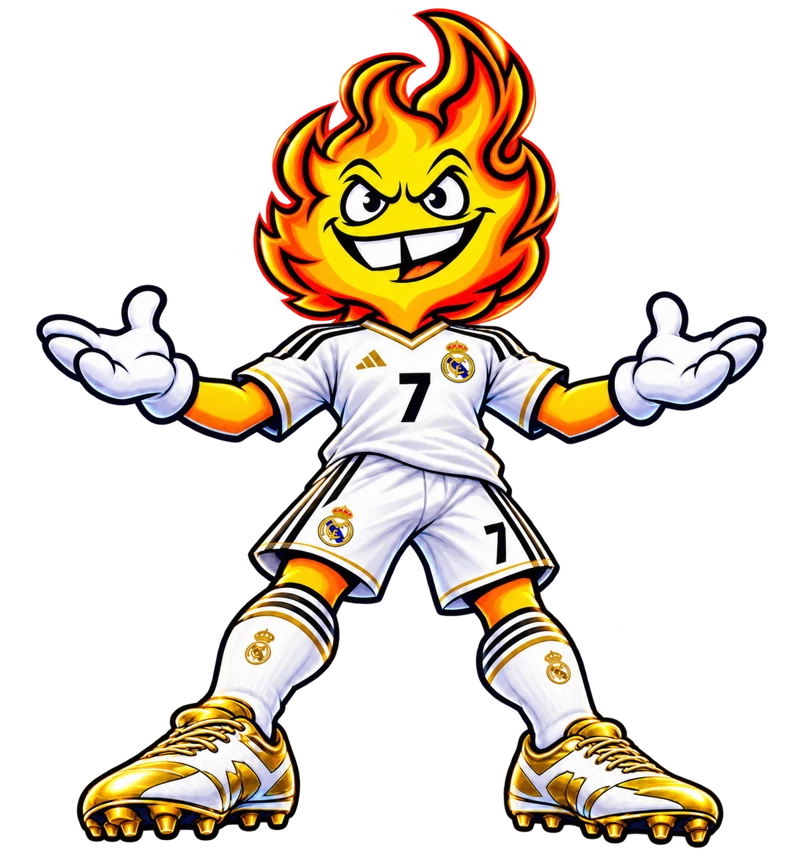
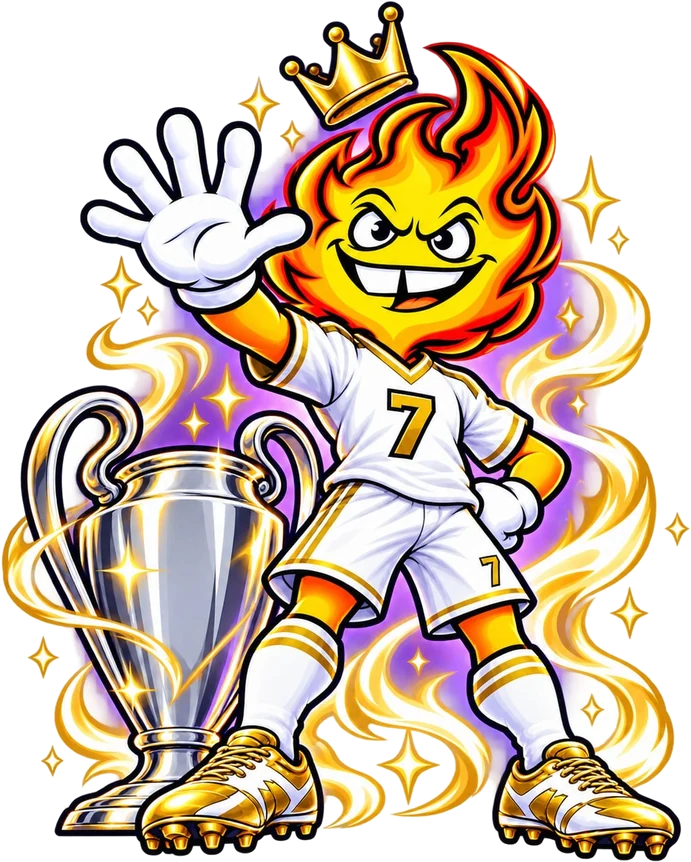
GOAT or BOAT: 17 coin, new CR7 Real art, grouped card frames
New CR7 Real C1 art (open hand, crown, cup). Spin price 17 coin. Board grouped by frame: red neon
headline cards (M10 Barca C1 and CR7 Real C1 with a running sparkle) along the top, purple GOAT/BOAT
down the right, gold shop skins along the bottom and left. Thicker board and card frames, bigger art.
CR7 MU and CR7 Real lead the BOAT list.

Claude-Session: https://claude.ai/code/session_01Gdoir5WVcTCbakTzgkp26Z

diff --git a/public/app.js b/public/app.js
@@ -46,7 +46,7 @@ function characterImage(id,cls='character-avatar'){return animatedCharacter(char
 function characterSummary(){const c=characterById(selectedCharacter);return `${characterImage(c.id)}<div><small>BELLA CREW / NHÂN VẬT CỦA BẠN</small><strong>${c.name}</strong><span>${c.tag}</span></div><button type="button" data-character-picker>Chọn nhân vật ↗</button>`;}
 function openCharacterPicker(){
  if(!account)return;const inRoom=page==='room'&&room&&session;let draft=selectedCharacter;const modal=$('#modal');modal.classList.add('character-modal');
- const draw=()=>{const c=characterById(draft),owned=!isCharacterLocked(draft);modal.innerHTML=`<div class="character-dialog-head"><div><div class="eyebrow">BELLA SKIN SHOP · 🪙 ${number(account.coins)} COIN</div><h2>Chọn nhân vật của bạn.</h2></div><button type="button" data-character-close aria-label="Đóng chọn nhân vật">×</button></div><div class="character-preview" data-rarity="${c.rarity||'standard'}" style="--character-color:${c.color}">${c.locked?`<button type="button" class="character-animate" data-preview-blink aria-label="Xem hoạt ảnh nhân vật">${characterImage(c.id,'character-full')}</button>`:characterImage(c.id,'character-full')}<div><small>${c.price===0?'SKIN MIỄN PHÍ':c.rarity==='legendary'?'SKIN HUYỀN THOẠI':c.locked?'SKIN HIỆU ỨNG':'SKIN THƯỜNG'}</small><h3>${c.name}</h3><p>${c.tag}</p><span>${owned?'Đã sở hữu':c.event?'Chỉ có trong vòng quay GOAT or BOAT':number(c.price)+' coin'}</span></div></div><button type="button" class="cr7-shop-banner" data-cr7-pack>✦ GOAT or BOAT · ${account.cr7Event?.freeUsed?'Quay 20 coin':'Nhận lượt quay miễn phí'} →</button><section class="mystery-pack"><div class="mystery-art">${characterImage(DEFAULT_CHARACTER)}<b>?</b></div><div><small>BELLA MYSTERY PACK</small><h3>Ai đang chờ bạn?</h3><p>3 coin: <b>47,62%</b> · 10 coin: <b>33,33%</b><br>15 coin: <b>14,29%</b> · 20 coin: <b>4,76%</b></p><button type="button" data-buy-pack>Quay gói · 10 coin ✦</button></div></section><div class="character-grid" role="group" aria-label="Bộ sưu tập nhân vật Bella">${[...CHARACTERS].sort((a,b)=>(a.price===0?-1:b.price===0?1:0)).map(c=>`<button type="button" class="character-option ${draft===c.id?'selected':''} ${isCharacterLocked(c.id)?'locked':''}" data-character="${c.id}" data-rarity="${c.rarity||'standard'}" aria-pressed="${draft===c.id}" style="--character-color:${c.color}">${characterImage(c.id)}<strong>${c.name}</strong><span>${isCharacterLocked(c.id)?(c.event?'Độc quyền vòng quay':'🪙 '+c.price+' coin'):c.price===0?'Miễn phí':'✓ Đã sở hữu'}</span></button>`).join('')}</div><p class="character-note">Skin chỉ thay đổi diện mạo. Coin và bộ sưu tập được lưu theo tài khoản.</p><button type="button" class="primary character-save">${owned?'Dùng nhân vật này →':c.event?'Quay GOAT or BOAT →':'Đổi skin · '+c.price+' coin'}</button>`;
+ const draw=()=>{const c=characterById(draft),owned=!isCharacterLocked(draft);modal.innerHTML=`<div class="character-dialog-head"><div><div class="eyebrow">BELLA SKIN SHOP · 🪙 ${number(account.coins)} COIN</div><h2>Chọn nhân vật của bạn.</h2></div><button type="button" data-character-close aria-label="Đóng chọn nhân vật">×</button></div><div class="character-preview" data-rarity="${c.rarity||'standard'}" style="--character-color:${c.color}">${c.locked?`<button type="button" class="character-animate" data-preview-blink aria-label="Xem hoạt ảnh nhân vật">${characterImage(c.id,'character-full')}</button>`:characterImage(c.id,'character-full')}<div><small>${c.price===0?'SKIN MIỄN PHÍ':c.rarity==='legendary'?'SKIN HUYỀN THOẠI':c.locked?'SKIN HIỆU ỨNG':'SKIN THƯỜNG'}</small><h3>${c.name}</h3><p>${c.tag}</p><span>${owned?'Đã sở hữu':c.event?'Chỉ có trong vòng quay GOAT or BOAT':number(c.price)+' coin'}</span></div></div><button type="button" class="cr7-shop-banner" data-cr7-pack>✦ GOAT or BOAT · ${account.cr7Event?.freeUsed?'Quay 17 coin':'Nhận lượt quay miễn phí'} →</button><section class="mystery-pack"><div class="mystery-art">${characterImage(DEFAULT_CHARACTER)}<b>?</b></div><div><small>BELLA MYSTERY PACK</small><h3>Ai đang chờ bạn?</h3><p>3 coin: <b>47,62%</b> · 10 coin: <b>33,33%</b><br>15 coin: <b>14,29%</b> · 20 coin: <b>4,76%</b></p><button type="button" data-buy-pack>Quay gói · 10 coin ✦</button></div></section><div class="character-grid" role="group" aria-label="Bộ sưu tập nhân vật Bella">${[...CHARACTERS].sort((a,b)=>(a.price===0?-1:b.price===0?1:0)).map(c=>`<button type="button" class="character-option ${draft===c.id?'selected':''} ${isCharacterLocked(c.id)?'locked':''}" data-character="${c.id}" data-rarity="${c.rarity||'standard'}" aria-pressed="${draft===c.id}" style="--character-color:${c.color}">${characterImage(c.id)}<strong>${c.name}</strong><span>${isCharacterLocked(c.id)?(c.event?'Độc quyền vòng quay':'🪙 '+c.price+' coin'):c.price===0?'Miễn phí':'✓ Đã sở hữu'}</span></button>`).join('')}</div><p class="character-note">Skin chỉ thay đổi diện mạo. Coin và bộ sưu tập được lưu theo tài khoản.</p><button type="button" class="primary character-save">${owned?'Dùng nhân vật này →':c.event?'Quay GOAT or BOAT →':'Đổi skin · '+c.price+' coin'}</button>`;
  modal.querySelector('[data-buy-pack]').onclick=()=>openMysteryPack(skin=>{draft=skin;draw();});
  modal.querySelector('[data-character-close]').onclick=()=>modal.close();modal.querySelector('[data-preview-blink]')?.addEventListener('click',e=>{const eyes=e.currentTarget.querySelector('.bella-eyelids');if(eyes)eyes.animate([{opacity:0},{opacity:1,offset:.2},{opacity:1,offset:.75},{opacity:0}],{duration:700});else e.currentTarget.querySelector('.hero-effects')?.animate([{opacity:.35},{opacity:1},{opacity:.8}],{duration:600});});
  modal.querySelectorAll('[data-character]').forEach(b=>b.onclick=()=>{draft=b.dataset.character;draw();modal.querySelector('[data-character="'+draft+'"]').focus();});

diff --git a/public/spin-wheel.css b/public/spin-wheel.css
@@ -5,10 +5,10 @@
 @keyframes stop-pulse{50%{box-shadow:0 0 26px #ff6a55}}
 .spin-dialog h2{margin:6px 20px 2px;font-size:clamp(24px,6vw,34px);letter-spacing:.04em;background:linear-gradient(100deg,#ffe9a0,#e0ad45,#fff1c2);-webkit-background-clip:text;background-clip:text;color:transparent}
 .spin-sub{margin:0 0 6px;font-size:12px!important}
-.spin-wheel{position:relative;display:grid;grid-template-columns:repeat(var(--s),1fr);grid-template-rows:repeat(var(--s),1fr);gap:clamp(3px,.9vw,6px);width:min(640px,100%,64dvh);aspect-ratio:1;margin:8px auto 0;padding:clamp(6px,1.4vw,10px);box-sizing:border-box;border-radius:20px;background:linear-gradient(145deg,#1d3354,#0a1222);border:2px solid #c7a75d77;box-shadow:inset 0 0 30px #000a,0 0 30px #e8b85022}
+.spin-wheel{position:relative;display:grid;grid-template-columns:repeat(var(--s),1fr);grid-template-rows:repeat(var(--s),1fr);gap:clamp(3px,.9vw,6px);width:min(640px,100%,64dvh);aspect-ratio:1;margin:8px auto 0;padding:clamp(6px,1.4vw,10px);box-sizing:border-box;border-radius:22px;background:linear-gradient(145deg,#1d3354,#0a1222);border:5px solid #d9b25e;outline:2px solid #6b4a17;outline-offset:-9px;box-shadow:inset 0 0 30px #000a,0 0 30px #e8b85022}
 .spin-tile,.spin-badge{position:relative;border-radius:clamp(6px,1.6vw,11px);overflow:hidden;display:grid;place-items:center;min-width:0;min-height:0}
-.spin-tile{background:radial-gradient(circle at 50% 30%,color-mix(in srgb,var(--c) 35%,#22344f),#0f1828);border:2px solid var(--rc,#8a94a6);box-shadow:0 2px 6px #0008;transition:transform .07s,box-shadow .07s,filter .07s;z-index:1}
-.spin-tile img{width:135%;height:135%;max-width:none;object-fit:contain;object-position:50% 0;translate:0 16%;pointer-events:none}
+.spin-tile{background:radial-gradient(circle at 50% 30%,color-mix(in srgb,var(--c) 35%,#22344f),#0f1828);border:clamp(3px,.8vw,5px) solid var(--rc,#8a94a6);box-shadow:0 2px 6px #0008;transition:transform .07s,box-shadow .07s,filter .07s;z-index:1}
+.spin-tile img{width:150%;height:150%;max-width:none;object-fit:contain;object-position:50% 0;translate:0 22%;pointer-events:none}
 .spin-badge{background:linear-gradient(145deg,#ffe9a0,#c98f2c);color:#3e2506;font:900 clamp(16px,4.5vw,28px)/1 Georgia,serif;box-shadow:inset 0 0 0 2px #fff4cc}
 .spin-tile[data-r=red]{--rc:#ff3b4f;box-shadow:inset 0 0 0 2px #ff3b4f55,0 0 10px #ff3b4f55}.spin-tile[data-r=purple]{--rc:#b25bff;box-shadow:inset 0 0 0 2px #b25bff66,0 0 12px #b25bff77}.spin-tile[data-r=rare]{--rc:#4aa3ff}.spin-tile[data-r=epic]{--rc:#b06bff}.spin-tile[data-r=gold]{--rc:#ffd34d}
 .spin-tile[data-r=boat]{--rc:#ff4d5e;box-shadow:inset 0 0 0 2px #ffd34d99,0 2px 6px #0008}.spin-tile[data-r=goat]{--rc:#6cc4ff;box-shadow:inset 0 0 0 2px #ffd34d99,0 2px 6px #0008}
@@ -32,3 +32,15 @@
 .goat-poster{position:relative}
 .cr7-dialog .goat-title{position:absolute;top:4%;left:0;right:0;margin:0!important;text-align:center;font:900 clamp(44px,13vw,72px)/.9 Georgia,serif;letter-spacing:.04em;background:linear-gradient(180deg,#fff6d0,#f2c14e 55%,#b9802a);-webkit-background-clip:text;background-clip:text;color:transparent;filter:drop-shadow(0 4px 0 #3a2208) drop-shadow(0 0 18px #000c)}
 .goat-title small{display:block;font:italic 700 .38em/1.3 Georgia,serif;letter-spacing:.2em}
+
+/* GOAT or BOAT frames: gold shop skins, purple GOAT/BOAT, red neon headline cards; two of them sparkle */
+.spin-tile[data-r=gold]{--rc:#ffcc33;box-shadow:inset 0 0 0 1px #fff3b066,0 0 8px #ffcc3355}
+.spin-tile[data-r=purple]{--rc:#b25bff;box-shadow:inset 0 0 0 1px #e2c2ff88,0 0 12px #b25bff88}
+.spin-tile[data-r=red]{--rc:#ff2d55;box-shadow:inset 0 0 0 1px #ffc2cf99,0 0 10px #ff2d55,0 0 22px #ff2d5588;animation:neon-red 1.6s ease-in-out infinite}
+@keyframes neon-red{50%{box-shadow:inset 0 0 0 1px #ffc2cf,0 0 16px #ff2d55,0 0 32px #ff2d55aa}}
+@property --spark{syntax:'<angle>';inherits:false;initial-value:0deg}
+.spin-tile[data-sparkle]::after{content:'';position:absolute;inset:-1px;border-radius:inherit;padding:clamp(3px,.8vw,5px);background:conic-gradient(from var(--spark),transparent 0 55%,#fff 65%,#ffd34d 70%,#ff2d55 78%,transparent 88%);-webkit-mask:linear-gradient(#000 0 0) content-box,linear-gradient(#000 0 0);-webkit-mask-composite:xor;mask-composite:exclude;animation:spark-run 1.8s linear infinite;pointer-events:none;z-index:2}
+.spin-tile[data-sparkle]::before{content:'✦';position:absolute;right:6%;top:4%;z-index:3;color:#fff;font-size:clamp(10px,2.6vw,16px);text-shadow:0 0 6px #ffd34d,0 0 12px #ff2d55;animation:spark-twinkle 1.2s ease-in-out infinite}
+@keyframes spark-run{to{--spark:360deg}}
+@keyframes spark-twinkle{50%{opacity:.2;scale:.6}}
+@media(prefers-reduced-motion:reduce){.spin-tile[data-r=red],.spin-tile[data-sparkle]::after,.spin-tile[data-sparkle]::before{animation:none}}

diff --git a/public/cr7-event.js b/public/cr7-event.js
@@ -1,7 +1,7 @@
 // GOAT or BOAT box (was the CR7 B.O.A.T pack) and the Bella mystery pack, both shown as a spinning wheel.
 import {CHARACTERS,characterById} from './characters.js';
 import {animatedCharacter} from './character-motion.js';
-import {CR7_EVENT,CR7_PRICE,BOX_NAME,cr7Skins,goatSkins,goatTiles,goatFrame} from './cr7-catalog.js';
+import {CR7_EVENT,CR7_PRICE,BOX_NAME,cr7Skins,goatSkins,goatTiles,goatFrame,SPARKLE} from './cr7-catalog.js';
 import {wheelHTML,spinner,stillArt,celebrate} from './spin-wheel.js';
 let getAccount=()=>null,performRequest,isHome=()=>false,offering=false;
 const offered=new Set();
@@ -30,7 +30,7 @@ function wheelDialog(mode){
  const accountId=a.id,d=dialog('cr7-pack spin-dialog '+(mode.cls||''));let pending=false,receipt=null,result=null,canStop=false,stopNow=null;
  if(mode.storageKey){try{receipt=JSON.parse(localStorage.getItem(mode.storageKey(accountId)));if(!mode.validReceipt(receipt))receipt=null;}catch{receipt=null;}}
  d.addEventListener('cancel',e=>{if(pending)e.preventDefault();});
- d.innerHTML=`<button class="cr7-close" aria-label="Đóng">×</button><small>${mode.eyebrow}</small><h2>${mode.title}</h2><p class="spin-sub">${mode.sub}</p>${wheelHTML(mode.tiles,idle(mode.label),mode.badge,mode.frame)}<h3 class="cr7-result-name" aria-live="polite"></h3><p class="spin-msg"></p><p class="cr7-wallet"></p><button class="cr7-gold" data-open></button><button class="cr7-gold spin-stop" data-stop hidden>DỪNG ✋</button><button class="cr7-equip" hidden>Dùng skin vừa nhận</button><button class="cr7-list">✧ Xem tỷ lệ & hiệu ứng</button><p class="cr7-error" role="status"></p><small class="cr7-footnote">${mode.footnote}</small>`;
+ d.innerHTML=`<button class="cr7-close" aria-label="Đóng">×</button><small>${mode.eyebrow}</small><h2>${mode.title}</h2><p class="spin-sub">${mode.sub}</p>${wheelHTML(mode.tiles,idle(mode.label),mode.badge,mode.frame,mode.sparkle)}<h3 class="cr7-result-name" aria-live="polite"></h3><p class="spin-msg"></p><p class="cr7-wallet"></p><button class="cr7-gold" data-open></button><button class="cr7-gold spin-stop" data-stop hidden>DỪNG ✋</button><button class="cr7-equip" hidden>Dùng skin vừa nhận</button><button class="cr7-list">✧ Xem tỷ lệ & hiệu ứng</button><p class="cr7-error" role="status"></p><small class="cr7-footnote">${mode.footnote}</small>`;
  const $=s=>d.querySelector(s),centre=$('.spin-centre'),wheel=$('.spin-wheel');
  const sp=spinner(wheel,mode.tiles,{onStep:id=>{centre.innerHTML=stepCentre(id);}});
  const ui=(error='')=>{const current=getAccount();if(current?.id!==accountId){d.close();return;}
@@ -62,14 +62,14 @@ function wheelDialog(mode){
 }
 
 export function openCr7Pack(){
- wheelDialog({eyebrow:'BELLA • VÒNG QUAY',title:BOX_NAME,label:'GOAT<small>or</small>BOAT',badge:'🐐',frame:goatFrame,tiles:goatTiles(),
+ wheelDialog({eyebrow:'BELLA • VÒNG QUAY',title:BOX_NAME,label:'GOAT<small>or</small>BOAT',badge:'🐐',frame:goatFrame,sparkle:SPARKLE,tiles:goatTiles(),
   sub:`${goatTiles().length} thẻ đặc biệt · thẻ nào cũng có cơ hội như nhau`,
   footnote:`Mỗi tài khoản được tặng 1 lượt quay. Các lượt sau ${CR7_PRICE} coin. Skin trùng không hoàn coin.`,
   storageKey:id=>'bella.'+CR7_EVENT+'.pending.'+id,validReceipt:r=>r&&typeof r.free==='boolean'&&typeof r.requestId==='string',
   newReceipt:a=>({requestId:crypto.randomUUID(),free:!a.cr7Event?.freeUsed}),
   button:(a,r)=>{const free=r?r.free:!a.cr7Event?.freeUsed;return r?{text:'Tiếp tục lượt đang quay'}:free?{text:'Quay miễn phí 🎁'}:a.coins<CR7_PRICE?{text:`Chưa đủ ${CR7_PRICE} coin`,disabled:true}:{text:`Quay · ${CR7_PRICE} coin`};},
   walletNote:a=>a.cr7Event?.freeUsed?`Lượt tiếp: ${CR7_PRICE} coin`:'Còn 1 lượt miễn phí',
-  request:r=>performRequest({op:'openCr7Pack',...r}),resetOn:/đã dùng lượt miễn phí|chưa đủ 20 coin/});
+  request:r=>performRequest({op:'openCr7Pack',...r}),resetOn:/đã dùng lượt miễn phí|chưa đủ \d+ coin/});
 }
 
 const MYSTERY_TIERS=[[3,50],[10,35],[15,15],[20,5]];

diff --git a/public/cr7-catalog.js b/public/cr7-catalog.js
@@ -1,20 +1,26 @@
 import {CHARACTERS} from './characters.js';
 // The GOAT or BOAT box (kept under the CR7 event id so first free spins and receipts carry over).
 export const CR7_EVENT='cr7-boat-v1';
-export const CR7_PRICE=20;
+export const CR7_PRICE=17;
 export const BOX_NAME='GOAT or BOAT';
-export const cr7Skins=()=>CHARACTERS.filter(c=>c.event===CR7_EVENT&&c.id.startsWith('cr7-'));
+const BOAT_ORDER=['cr7-mu','cr7-real','cr7-sporting','cr7-al-nassr'];
+export const cr7Skins=()=>CHARACTERS.filter(c=>c.event===CR7_EVENT&&c.id.startsWith('cr7-')).sort((a,b)=>BOAT_ORDER.indexOf(a.id)-BOAT_ORDER.indexOf(b.id));
 export const goatSkins=()=>CHARACTERS.filter(c=>c.event===CR7_EVENT&&c.id.startsWith('goat-'));
 // Only skins worth 10 coin or more, plus the box-only GOAT/BOAT skins, are on the board. One card each,
 // every card equally likely.
 export const isCheap=c=>typeof c.price==='number'&&c.price<10;
-// Board order (clockwise): GOAT, BOAT and other skins take turns so look-alikes never sit side by side.
-const ORDER=['goat-m10-barca-2015','cr7-mu','sydney-sweeney','goat-m10-bernabeu','cr7-real','son-tung-mtp','goat-m10-paris','cr7-sporting','bella-iron','goat-m10-miami','cr7-al-nassr','bella-spider','goat-neymar-samba','bella-portugal-7','bella-mu','bella-m10','bella-chelsea','bella-lakers','bella-tech'];
+// Card frames: red neon for the four headline cards (two of them sparkle), purple for the other GOAT/BOAT cards,
+// gold for the shop skins.
+export const SPARKLE=new Set(['goat-m10-barca-2015','cr7-real']);
+const RED=['son-tung-mtp','goat-m10-barca-2015','cr7-real','sydney-sweeney'];
+const PURPLE=['goat-m10-bernabeu','cr7-mu','goat-m10-paris','cr7-sporting','goat-m10-miami','cr7-al-nassr','goat-neymar-samba'];
+export const goatFrame=c=>RED.includes(c.id)?'red':c.event===CR7_EVENT?'purple':'gold';
+// Board order, clockwise after the badge in the top-left corner: the red cards along the top, then the purple
+// ones down the right, then the gold ones along the bottom and up the left, so look-alike cards sit together.
 export function goatTiles(){
- const ids=CHARACTERS.filter(c=>c.event===CR7_EVENT||(typeof c.price==='number'&&c.price>=10)).map(c=>c.id),rank=id=>{const i=ORDER.indexOf(id);return i<0?ORDER.length:i;};
- return ids.sort((a,b)=>rank(a)-rank(b));
+ const ids=CHARACTERS.filter(c=>c.event===CR7_EVENT||(typeof c.price==='number'&&c.price>=10)).map(c=>c.id);
+ const group=id=>RED.includes(id)?0:characterOf(id).event===CR7_EVENT?1:2,rank=id=>{const l=[...RED,...PURPLE],i=l.indexOf(id);return i<0?99:i;};
+ return ids.sort((a,b)=>group(a)-group(b)||rank(a)-rank(b));
 }
-// Card frames on the board: purple for the four headline cards, red for the other M10 and CR7 cards, gold for the rest.
-const PURPLE=new Set(['goat-m10-barca-2015','cr7-mu','son-tung-mtp','sydney-sweeney']);
-export const goatFrame=c=>PURPLE.has(c.id)?'purple':/^(goat-m10|cr7-|bella-m10$|bella-portugal-7$)/.test(c.id)?'red':'gold';
+const characterOf=id=>CHARACTERS.find(c=>c.id===id);
 export const tileChance=id=>{const t=goatTiles();return t.filter(x=>x===id).length/t.length;};

diff --git a/public/cr7-motion.js b/public/cr7-motion.js
@@ -6,5 +6,5 @@ export function cr7Character(c,cls){
  const showPlate=!/character-avatar|opponent-portrait/.test(cls)&&PLATES[c.id];
  const real=c.id==='cr7-real',accent=real?'#748bff':c.id==='cr7-al-nassr'?'#3985ff':'#fff3ba';
  const orbit=(i)=>`<g transform="translate(320 338)"><g class="cr7-orbit cr7-orbit-${i}"><g transform="translate(0 -270)"><g class="cr7-ball-spin">${real?star:ball}</g></g></g></g>`;
- return `<svg class="${cls} character-motion cr7-motion" style="--cr7-color:${c.color};--cr7-accent:${accent}" viewBox="0 0 640 ${showPlate?700:676}" role="img" aria-label="${c.name}"><ellipse class="cr7-aura" cx="320" cy="350" rx="225" ry="265"/><g class="cr7-ring-back"><ellipse cx="320" cy="338" rx="280" ry="254"/><ellipse cx="320" cy="338" rx="260" ry="276"/></g>${orbit(0)}<image href="/assets/events/cr7-boat/${c.id}-clean.webp" x="94" y="40" width="452" height="592" preserveAspectRatio="xMidYMid meet"/><g class="cr7-ring-front"><path d="M45 350C75 530 565 555 594 330"/><path d="M65 385C150 520 500 520 575 370"/></g>${orbit(1)}${real?'<g class="cr7-cup" transform="translate(475 530) scale(.7)"><path d="M-35-40H35V-5Q35 32 0 45Q-35 32-35-5Z M-35-30H-55V-5Q-55 20-25 20M35-30H55V-5Q55 20 25 20M0 45V65M-25 67H25" fill="#c8e6ff" stroke="#fff" stroke-width="5"/><path d="M-12-25V5Q-12 22 0 25" fill="none" stroke="#6e9bcb" stroke-width="6"/></g>':''}${Array.from({length:10},(_,i)=>{const a=i*Math.PI/5;return `<g transform="translate(${320+Math.cos(a)*267} ${338+Math.sin(a)*280})"><path class="cr7-spark" style="--delay:${-i*.33}s" d="M0-8 2-2 8 0 2 2 0 8-2 2-8 0-2-2Z"/></g>`;}).join('')}${showPlate?plate(PLATES[c.id]):''}</svg>`;
+ return `<svg class="${cls} character-motion cr7-motion" style="--cr7-color:${c.color};--cr7-accent:${accent}" viewBox="0 0 640 ${showPlate?700:676}" role="img" aria-label="${c.name}"><ellipse class="cr7-aura" cx="320" cy="350" rx="225" ry="265"/><g class="cr7-ring-back"><ellipse cx="320" cy="338" rx="280" ry="254"/><ellipse cx="320" cy="338" rx="260" ry="276"/></g>${orbit(0)}<image href="/assets/events/cr7-boat/${c.id}-clean.webp" x="94" y="40" width="452" height="592" preserveAspectRatio="xMidYMid meet"/><g class="cr7-ring-front"><path d="M45 350C75 530 565 555 594 330"/><path d="M65 385C150 520 500 520 575 370"/></g>${orbit(1)}${Array.from({length:10},(_,i)=>{const a=i*Math.PI/5;return `<g transform="translate(${320+Math.cos(a)*267} ${338+Math.sin(a)*280})"><path class="cr7-spark" style="--delay:${-i*.33}s" d="M0-8 2-2 8 0 2 2 0 8-2 2-8 0-2-2Z"/></g>`;}).join('')}${showPlate?plate(PLATES[c.id]):''}</svg>`;
 }

diff --git a/test/cr7.test.js b/test/cr7.test.js
@@ -16,10 +16,10 @@ test('box skins cannot be bought one by one and the free spin is used once',asyn
  const requestId=randomUUID(),r=await Promise.all(Array.from({length:4},()=>call('openCr7Pack',{requestId,free:true})));
  assert.ok(r.every(x=>x.result.skin===r[0].result.skin));assert.equal(goatTiles()[r[0].result.tile],r[0].result.skin);assert.equal(r[0].account.coins,0);assert.equal(r[0].account.cr7Event.freeUsed,true);
  await assert.rejects(()=>call('openCr7Pack',{free:true}),/đã dùng/);
- await assert.rejects(()=>call('openCr7Pack',{free:false}),/20 coin/);
- const identity=await authenticateAccount(token),doc=await accountDocument(identity);doc.value.coins=20;await writeRecord(identity.key,doc.raw,doc.value);
+ await assert.rejects(()=>call('openCr7Pack',{free:false}),/17 coin/);
+ const identity=await authenticateAccount(token),doc=await accountDocument(identity);doc.value.coins=17;await writeRecord(identity.key,doc.raw,doc.value);
  const paidId=randomUUID(),paid=await Promise.all(Array.from({length:3},()=>call('openCr7Pack',{requestId:paidId,free:false})));
- assert.ok(paid.every(x=>x.result.skin===paid[0].result.skin));assert.equal(paid[0].account.coins,0);assert.equal(paid[0].result.before,20);assert.equal(paid[0].result.after,0);
+ assert.ok(paid.every(x=>x.result.skin===paid[0].result.skin));assert.equal(paid[0].account.coins,0);assert.equal(paid[0].result.before,17);assert.equal(paid[0].result.after,0);
  await assert.rejects(()=>call('openCr7Pack',{requestId:paidId,free:true}),/đã sử dụng/);
  const login=await call('login',{username:'CR7 test',password:'pw'});assert.equal(login.account.cr7Event.freeUsed,true);
  assert.equal((await call('seeCr7Event')).account.cr7Event.seen,true);

diff --git a/public/spin-wheel.js b/public/spin-wheel.js
@@ -16,13 +16,13 @@ export const isJackpot=c=>['goat','boat','gold'].includes(rarity(c));
 
 // Cells of an s×s square's edge, clockwise from the top-left corner.
 function edge(s){const out=[];for(let c=0;c<s;c++)out.push([0,c]);for(let r=1;r<s;r++)out.push([r,s-1]);for(let c=s-2;c>=0;c--)out.push([s-1,c]);for(let r=s-2;r>0;r--)out.push([r,0]);return out;}
-export function wheelHTML(tiles,centre='',badge='★',frame=rarity){
+export function wheelHTML(tiles,centre='',badge='★',frame=rarity,sparkle=new Set()){
  const n=tiles.length;let s=3;while(4*(s-1)<n)s++;
  const cells=edge(s),spare=cells.length-n,corners=[0,s-1,2*(s-1),3*(s-1)].slice(0,spare);  // leftover corners become badges
  let k=0;const html=cells.map(([r,c],i)=>{const pos=`grid-area:${r+1}/${c+1}`;
   if(corners.includes(i))return `<span class="spin-badge" style="${pos}" aria-hidden="true">${badge}</span>`;
   const id=tiles[k],ch=characterById(id),j=k++;
-  return `<span class="spin-tile" data-r="${frame(ch)}" data-i="${j}" style="${pos};--c:${ch.color}" title="${esc(ch.name)}"><img src="${stillArt(ch)}" alt="" loading="lazy" onerror="this.remove()"></span>`;}).join('');
+  return `<span class="spin-tile" data-r="${frame(ch)}"${sparkle.has(id)?' data-sparkle':''} data-i="${j}" style="${pos};--c:${ch.color}" title="${esc(ch.name)}"><img src="${stillArt(ch)}" alt="" loading="lazy" onerror="this.remove()"></span>`;}).join('');
  return `<div class="spin-wheel" style="--s:${s}">${html}<div class="spin-centre" style="grid-area:2/2/${s}/${s}">${centre}</div></div>`;
 }
 

diff --git a/lib/accounts.js b/lib/accounts.js
@@ -107,7 +107,7 @@ export async function accountRequest({body={},token,ip='local'}){
    if(a.claims[key]){demand(a.claims[key].free===body.free,'Mã lượt mở đã sử dụng.');return a.claims[key];}
    a.cr7Event??={seen:false,freeUsed:false};
    if(body.free)demand(!a.cr7Event.freeUsed,'Bạn đã dùng lượt miễn phí.');
-   else demand(a.coins>=CR7_PRICE,'Bạn chưa đủ 20 coin để quay GOAT or BOAT.');
+   else demand(a.coins>=CR7_PRICE,`Bạn chưa đủ ${CR7_PRICE} coin để quay GOAT or BOAT.`);
    const tiles=goatTiles(),tile=randomInt(tiles.length),skin={id:tiles[tile]};
    const duplicate=a.ownedSkins.includes(skin.id),before=a.coins;
    if(body.free)a.cr7Event.freeUsed=true;else a.coins-=CR7_PRICE;
